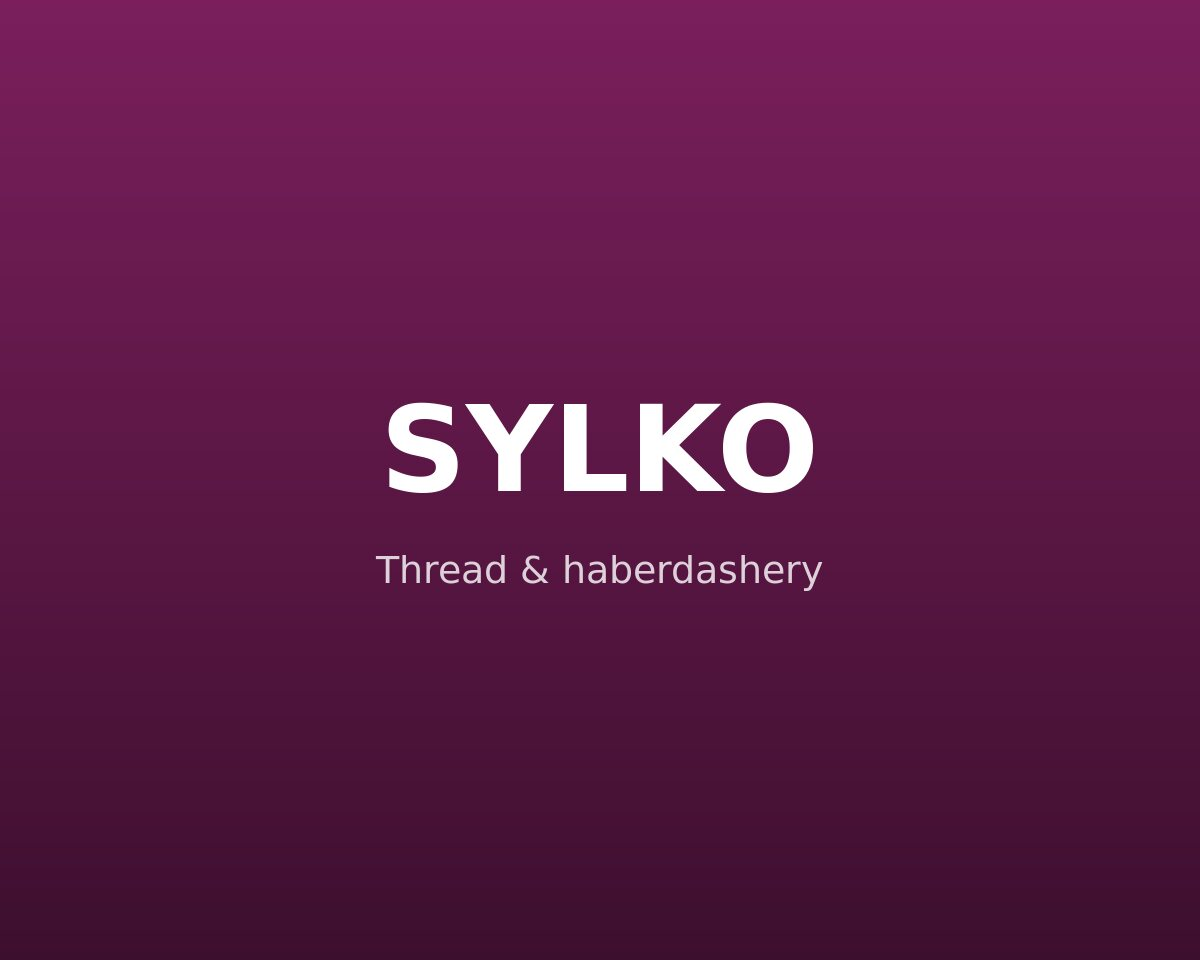
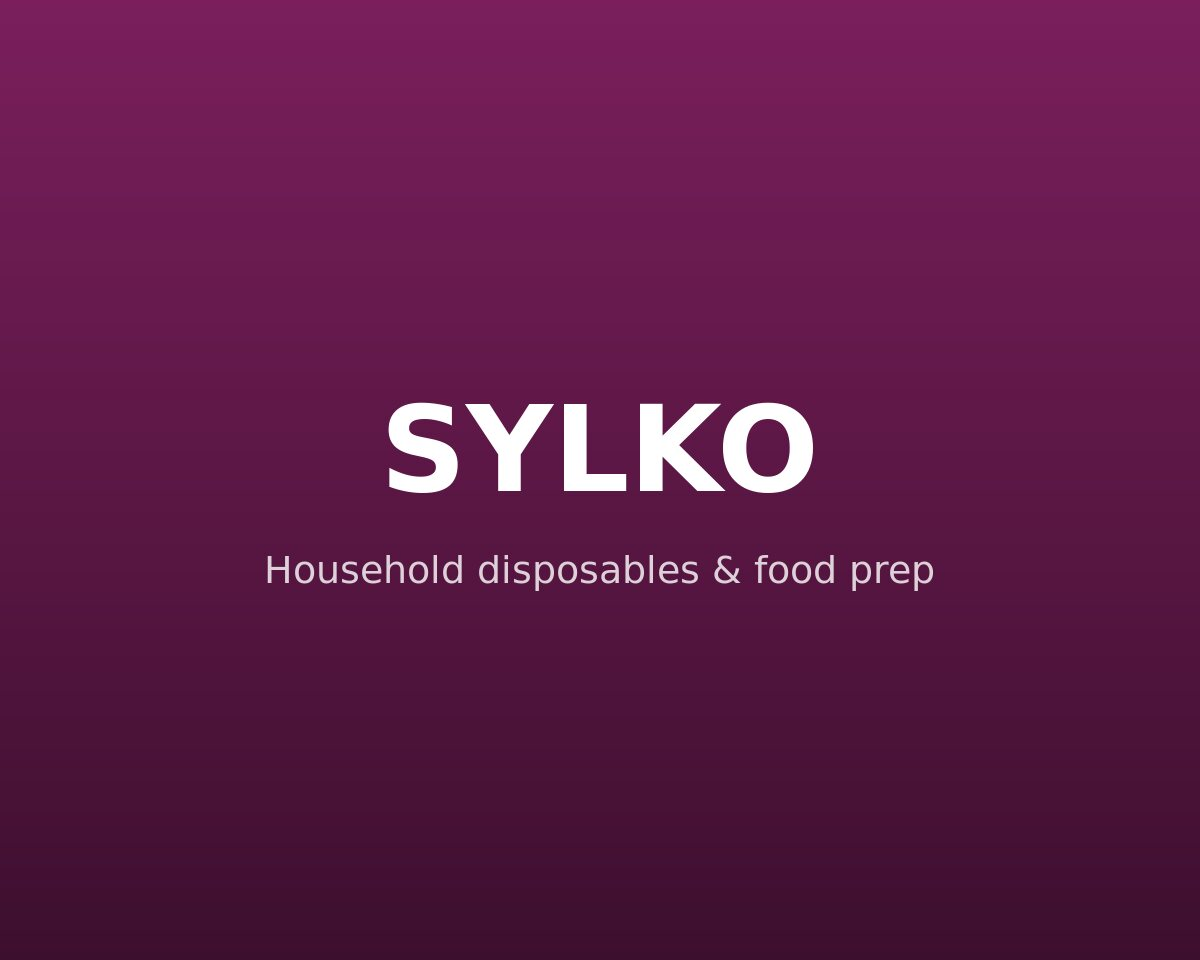
Correct Sylko: household disposables, not thread
Claude-Session: https://claude.ai/code/session_015cYgKE4XLKtPPgskND5jnB

Changed region(s): [[0.2158, 0.5625, 0.7708, 0.625]]

diff --git a/index.html b/index.html
@@ -846,7 +846,7 @@ h1,h2,h3{ font-weight:400; }
     <li><a href="brands.html#brand-bat"><span class="brand-logo-badge bat">BAT</span><span class="bc-name">British American Tobacco</span><span class="bc-cap">Tobacco &amp; nicotine</span></a></li>
     <li><a href="brands.html#brand-nestle"><span class="brand-logo-badge nestle">Nestl&eacute;</span><span class="bc-name">Nestl&eacute; South Africa</span><span class="bc-cap">Food &amp; beverage</span></a></li>
     <li><a href="brands.html#brand-lion-match"><span class="brand-logo-badge lion">Lion Match</span><span class="bc-name">Lion Match Products</span><span class="bc-cap">Household &amp; matches</span></a></li>
-    <li><a href="brands.html#brand-sylko"><span class="brand-logo-badge sylko">Sylko</span><span class="bc-name">Sylko NSP</span><span class="bc-cap">Thread &amp; haberdashery</span></a></li>
+    <li><a href="brands.html#brand-sylko"><span class="brand-logo-badge sylko">Sylko</span><span class="bc-name">Sylko NSP</span><span class="bc-cap">Household disposables</span></a></li>
     <li><a href="brands.html#brand-colgate"><span class="brand-logo-badge colgate">Colgate</span><span class="bc-name">Colgate-Palmolive Zambia</span><span class="bc-cap">Personal &amp; oral care</span></a></li>
     <li><a href="brands.html#brand-dgm"><span class="brand-logo-badge dgm">DGM</span><span class="bc-name">Duncan Gilbey &amp; Matheson</span><span class="bc-cap">Spirits &amp; beverages</span></a></li>
     <li><a href="brands.html#brand-promasidor"><span class="brand-logo-badge promasidor">Promasidor</span><span class="bc-name">Promasidor</span><span class="bc-cap">Bulk powdered milk</span></a></li>

diff --git a/brands.html b/brands.html
@@ -617,8 +617,8 @@ h1,h2,h3{ font-weight:400; }
     </article>
     <article class="brand-feature reveal" id="brand-sylko">
       <figure class="brand-media">
-        <img class="od-media" src="assets/brand-sylko.jpg" alt="Sylko NSP — thread and haberdashery" width="1200" height="960" loading="lazy" />
-        <figcaption>Thread &amp; haberdashery</figcaption>
+        <img class="od-media" src="assets/brand-sylko.jpg" alt="Sylko NSP — household disposables and food-preparation products" width="1200" height="960" loading="lazy" />
+        <figcaption>Household disposables</figcaption>
       </figure>
       <div class="brand-body">
         <p class="b-idx">04 / Principal</p>
@@ -626,7 +626,7 @@ h1,h2,h3{ font-weight:400; }
           <h3 class="b-name">Sylko NSP</h3>
           <span class="brand-logo-badge sylko" aria-label="Sylko Logo">Sylko</span>
         </div>
-        <p class="b-desc">Thread and haberdashery for the retail and township trade, placed and replenished shelf by shelf.</p>
+        <p class="b-desc">Household disposables and food-preparation products &mdash; foil, baking paper and disposable tableware &mdash; for braais, parties and everyday kitchens, supplied to retailers and wholesalers.</p>
       </div>
     </article>
     <article class="brand-feature reveal" id="brand-colgate">
